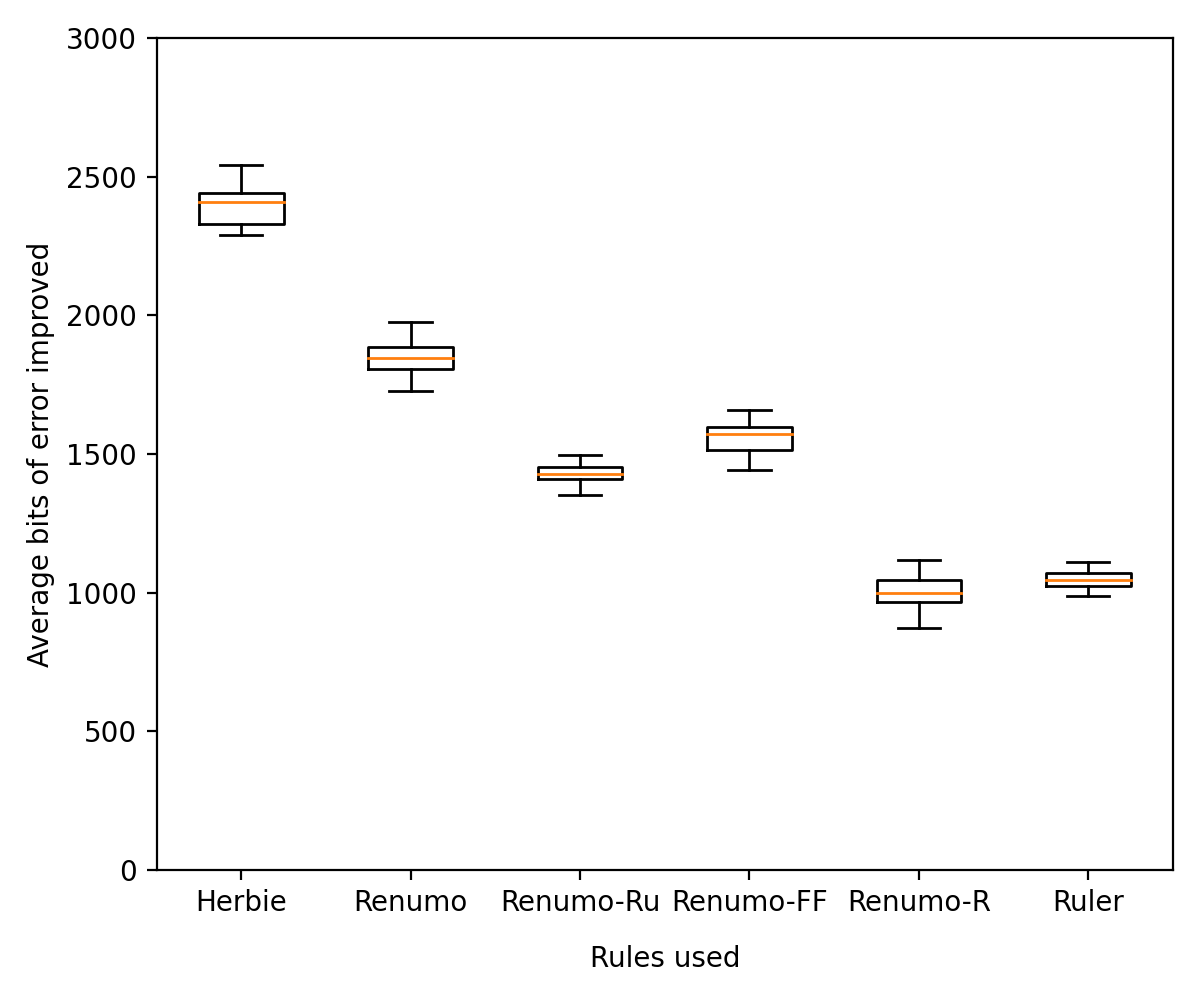
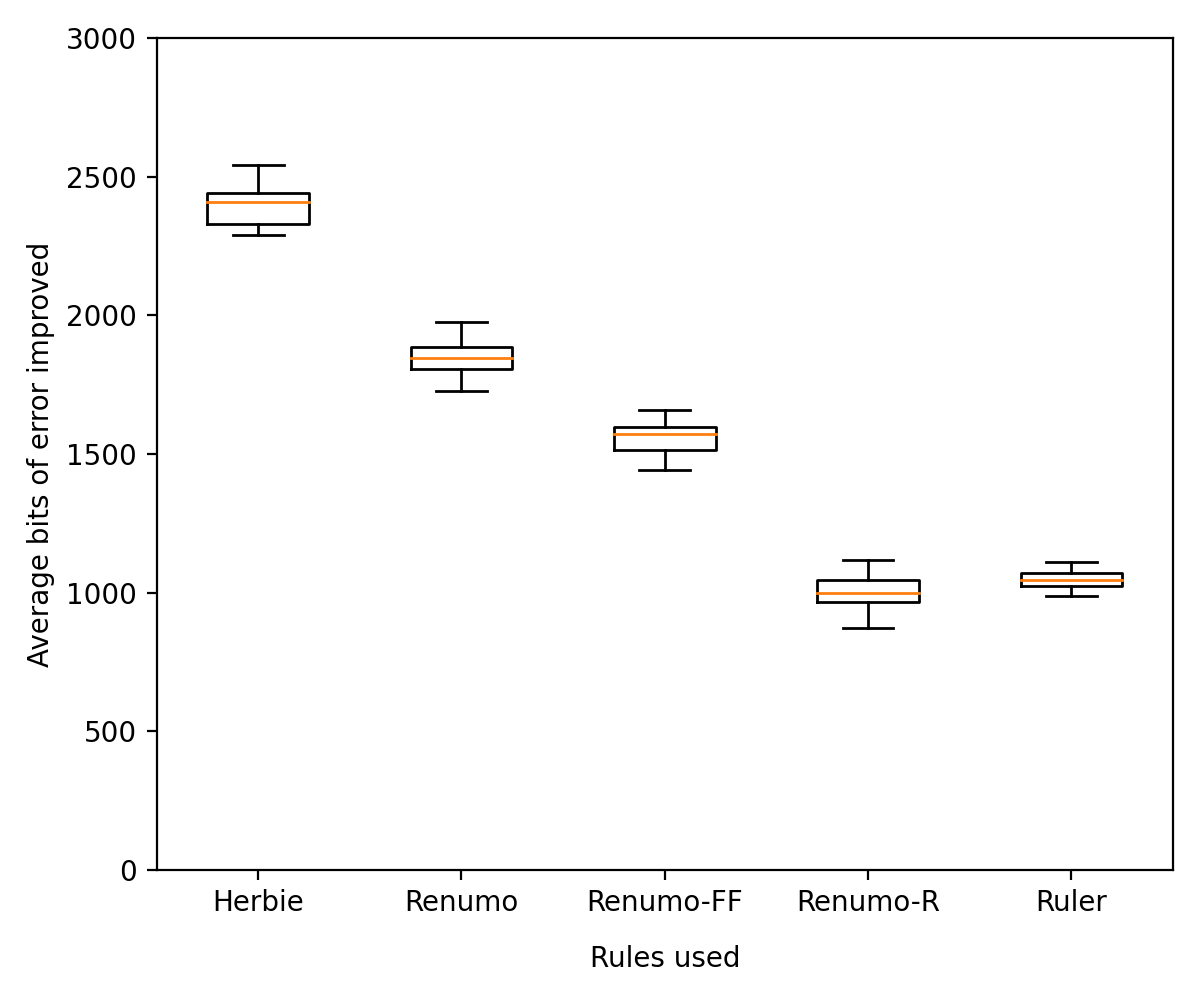
5 seeds, remove Renumo-Ru column

diff --git a/scripts/oopsla23/fig_8/plot/config-all-tests-box-plot.py b/scripts/oopsla23/fig_8/plot/config-all-tests-box-plot.py
@@ -24,14 +24,15 @@ if field == "time":
 
 h = ('Herbie', pairs['main'])
 e = ('Renumo', pairs['enumo'])
-e2 = ('Renumo-Ru', pairs['enumo-ruler-rat'])
+# e2 = ('Renumo-Ru', pairs['enumo-ruler-rat'])
 # e3 = ('Renumo-Re', pairs['enumo-replicate-rat'])
 f = ('Renumo-FF', pairs['enumo-no-ff'])
 o = ('Renumo-R', pairs['enumo-rat'])
 r = ('Ruler', pairs['ruler'])
 
 # listify = [h, e, f, o, r, hl, el]
-listify = [h, e, e2, f, o, r]
+# listify = [h, e, e2, f, o, r]
+listify = [h, e, f, o, r]
 
 labs = []
 vals = []
